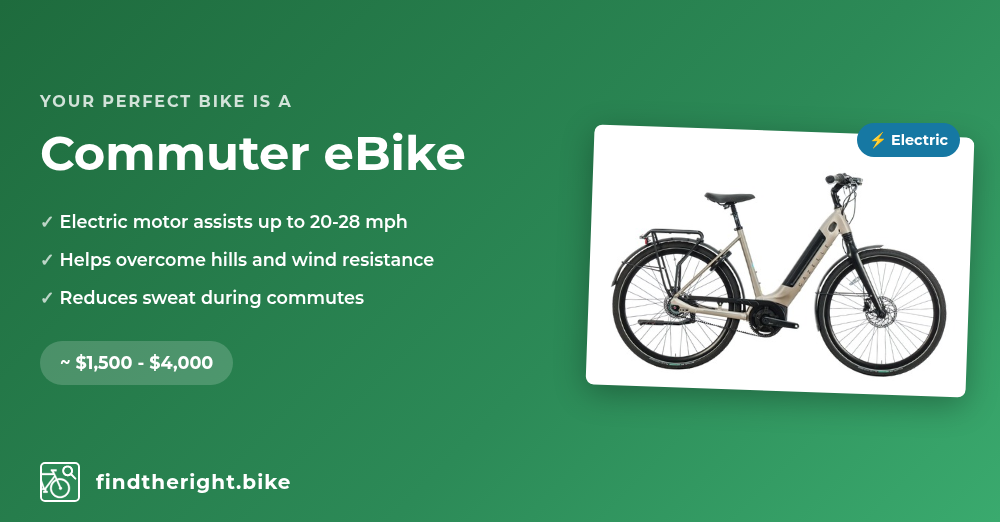
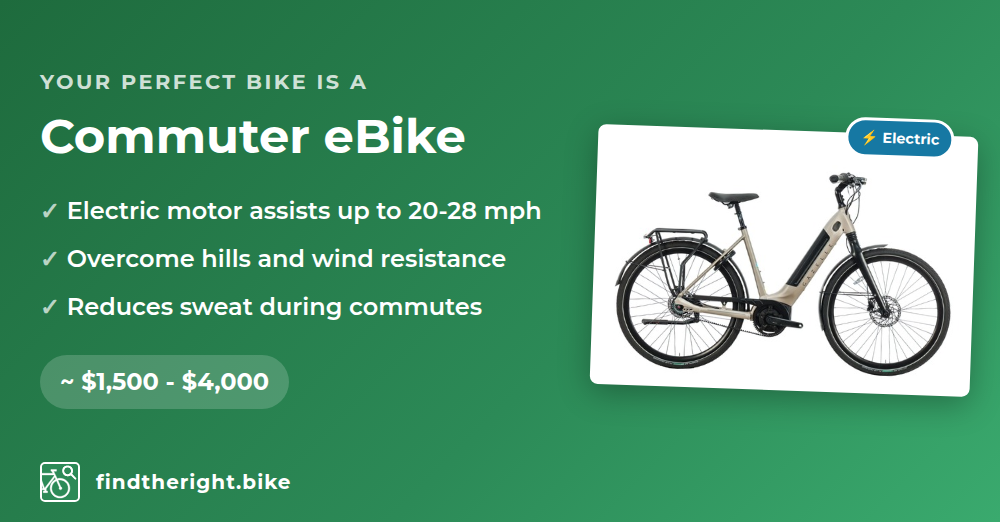
Improve social images with larger font sizes Also tightened up text

diff --git a/src/constants/bikeTypes.ts b/src/constants/bikeTypes.ts
@@ -46,7 +46,7 @@ export const BikeTypes: Record<BikeTypeId, BikeType> = {
     description: 'A commuter eBike is ideal for your situation. The electric assistance will help with hills, wind, or longer distances while maintaining the convenience of a standard bicycle.',
     features: [
       'Electric motor assists up to 20-28 mph',
-      'Helps overcome hills and wind resistance',
+      'Overcome hills and wind resistance',
       'Reduces sweat during commutes',
       '20-50 mile range per charge'
     ],
@@ -63,9 +63,8 @@ export const BikeTypes: Record<BikeTypeId, BikeType> = {
     similarTypes: ['cargo-ebike', 'longtail-bike', 'cargo-etrike'],
     description: 'A non-electric cargo bike will address your carrying needs. These bikes are designed to handle loads while maintaining stability and ease of use without requiring battery power.',
     features: [
-      'Front cargo box for groceries and goods',
-      'Stable frame design for carrying heavy loads',
-      'Can transport goods, groceries, or equipment',
+      'Front cargo box for people or cargo',
+      'Stable frame design for heavy loads',
       'No battery to charge or maintain'
     ],
     priceRange: '$1,000 - $2,500',
@@ -81,8 +80,8 @@ export const BikeTypes: Record<BikeTypeId, BikeType> = {
     similarTypes: ['cargo-etrike', 'longtail-ebike', 'cargo-bike'],
     description: 'A cargo eBike with front loading design is perfect for your needs. The electric assistance makes hauling cargo easier, while the bucket design is ideal for groceries and goods.',
     features: [
-      'Large front cargo area for groceries or goods',
-      'Electric assist makes carrying loads easier',
+      'Front cargo box for people or cargo',
+      'E-assist makes carrying loads easier',
       'Stable even when fully loaded',
       'Can replace a car for most errands'
     ],
@@ -99,9 +98,9 @@ export const BikeTypes: Record<BikeTypeId, BikeType> = {
     similarTypes: ['longtail-ebike', 'cargo-bike', 'cargo-ebike'],
     description: 'A non-electric longtail cargo bike is perfect for transporting people and heavy loads. With your fitness level, you can handle this sturdy bike without electric assistance while still carrying passengers or cargo.',
     features: [
-      'Extended rear deck for passengers or cargo',
       'High weight capacity (up to 550 lbs)',
       'Can carry several children',
+      'Rear deck for passengers or cargo',
       'No battery charging required'
     ],
     priceRange: '$1,800 - $2,500',
@@ -118,9 +117,9 @@ export const BikeTypes: Record<BikeTypeId, BikeType> = {
     similarTypes: ['cargo-ebike', 'cargo-etrike', 'longtail-bike', 'commuter-ebike'],
     description: 'A longtail cargo eBike is ideal for transporting people. The extended rear section provides seating for children or adults while electric assistance makes the ride effortless.',
     features: [
-      'Extended rear deck for passengers',
-      'Electric assist makes carrying passengers easier',
-      'Can accommodate child seats or passenger seating',
+      'E-assist makes carrying passengers easier',
+      'Can accommodate child seats or adult seating',
+      'Rear deck for passengers',
       'High weight capacity'
     ],
     priceRange: '$1,500 - $6,000',
@@ -137,9 +136,9 @@ export const BikeTypes: Record<BikeTypeId, BikeType> = {
     description: 'An electric trike offers maximum stability with three wheels, making it ideal ' +
       'if you have balance concerns. Electric assist makes hauling cargo or passengers effortless.',
     features: [
-      'Three-wheel design for maximum stability',
-      'Low step-through frame for easy mounting',
-      'Electric assist for hills and heavy loads',
+      'Three wheels for maximum stability',
+      'Step-through frame for easy mounting',
+      'E-assist for hills and heavy loads',
       'Large cargo capacity'
     ],
     priceRange: '$1,500 - $3,999',
@@ -155,9 +154,9 @@ export const BikeTypes: Record<BikeTypeId, BikeType> = {
     similarTypes: ['cargo-ebike', 'etrike', 'longtail-ebike', 'cargo-bike'],
     description: 'A cargo electric trike combines the stability of three wheels with a front-loading cargo area. Ideal for hauling kids, pets, or heavy loads with confidence and zero balance concerns.',
     features: [
-      'Three-wheel design for maximum stability',
+      'Three wheels for maximum stability',
       'Front cargo box for kids, pets, or goods',
-      'Electric assist for heavy loads and hills',
+      'E-assist for heavy loads and hills',
       'No balance required — safe for all abilities'
     ],
     priceRange: '$2,300 - $6,500',

diff --git a/index.html b/index.html
@@ -13,12 +13,12 @@
 
     <meta charset="UTF-8" />
     <meta name="viewport" content="width=device-width, initial-scale=1.0" />
-    <title>Find The Right Bike - Find Your Perfect Ride</title>
-    <meta name="description" content="Find the right bike to help biking replace some of your car trips, and see how much you could save!" />
+    <title>Find The Right Bike</title>
+    <meta name="description" content="Answer four questions to find your right bike, and see how much you could save by biking!" />
 
     <!-- Open Graph -->
-    <meta property="og:title" content="Find The Right Bike - Find Your Perfect Ride!" />
-    <meta property="og:description" content="Find the right bike to help biking replace some of your car trips, and see how much you could save!" />
+    <meta property="og:title" content="Find The Right Bike" />
+    <meta property="og:description" content="Answer four questions to find your right bike, and see how much you could save by biking!" />
     <meta property="og:url" content="https://findtheright.bike" />
     <meta property="og:type" content="website" />
     <meta property="og:image" content="https://findtheright.bike/images/social.png" />
@@ -27,8 +27,8 @@
 
     <!-- Twitter Card -->
     <meta name="twitter:card" content="summary_large_image" />
-    <meta name="twitter:title" content="Find The Right Bike - Find Your Perfect Ride!" />
-    <meta name="twitter:description" content="Find the right bike to help biking replace some of your car trips, and see how much you could save!" />
+    <meta name="twitter:title" content="Find The Right Bike" />
+    <meta name="twitter:description" content="Answer four questions to find your right bike, and see how much you could save by biking!" />
     <meta name="twitter:image" content="https://findtheright.bike/images/social.png" />
 
     <link rel="icon" type="image/x-icon" href="/favicon.ico">

diff --git a/src/components/SocialImage.vue b/src/components/SocialImage.vue
@@ -2,7 +2,7 @@
   <div class="social-image">
     <div class="content">
       <div class="eyebrow">4 questions. No nonsense.</div>
-      <h1>Find The<br>Right Bike</h1>
+      <h1>Find The<br> Right Bike</h1>
       <div class="benefits-summary">
         <div class="benefit-item">
           <div class="benefit-icon">💰</div>
@@ -24,7 +24,8 @@
     </div>
     <div class="collage">
       <div class="photo photo-1">
-        <img src="/images/bikes/dutch-bike.jpg" alt="City bike">
+        <img src="/images/bikes/urban-arrow.jpg" alt="Family bike">
+
       </div>
       <div class="photo photo-2">
         <img src="/images/bikes/gazelle-ebike.jpg" alt="Electric bike">
@@ -33,7 +34,7 @@
         <img src="/images/bikes/tern-gsd-500.jpg" alt="Cargo bike">
       </div>
       <div class="photo photo-4">
-        <img src="/images/bikes/urban-arrow.jpg" alt="Family bike">
+        <img src="/images/bikes/dutch-bike.jpg" alt="City bike">
       </div>
     </div>
     <div class="site-brand">
@@ -57,7 +58,7 @@
 }
 
 h1 {
-  font-size: 3.5rem;
+  font-size: 4rem;
 }
 
 .benefits-summary { gap: 1rem 0.5rem; }
@@ -67,7 +68,7 @@ h1 {
   color: vars.$white;
   font-weight: 700;
   box-shadow: none;
-  font-size: 1rem;
+  font-size: 1.25rem;
 }
 
 // 2x2 collage
@@ -108,12 +109,13 @@ h1 {
   }
   &.photo-3 {
     background: #FFBE0B;
-    transform: rotate(2deg) translate(1rem, -2rem);
+    transform: rotate(-4deg) translate(5rem, -1rem);
     z-index: 1;
+
   }
   &.photo-4 {
     background: #06D6A0;
-    transform: rotate(-3deg) translate(-1rem, 0rem);
+    transform: rotate(3deg) translate(0.5rem, -2rem);
   }
 }
 </style>

diff --git a/src/components/SocialImageBike.vue b/src/components/SocialImageBike.vue
@@ -11,8 +11,8 @@
     <div class="photo-area">
       <div class="photo-frame">
         <img :src="bike.image" :alt="bike.title">
+        <div v-if="bike.electric" class="electric-badge">⚡ Electric</div>
       </div>
-      <div v-if="bike.electric" class="electric-badge">⚡ Electric</div>
     </div>
     <div class="site-brand">
       <img src="/images/icons/favicon.svg" alt="" class="site-logo">
@@ -44,7 +44,7 @@ const bike = computed(() => BikeTypes[props.type as BikeTypeId] || null);
 
   li {
     color: vars.$white;
-    font-size: 1.1rem;
+    font-size: 1.5rem;
     font-weight: 600;
     padding: 0.3rem 0;
 
@@ -60,13 +60,13 @@ const bike = computed(() => BikeTypes[props.type as BikeTypeId] || null);
   background-color: rgba(255, 255, 255, 0.18);
   color: vars.$white;
   font-weight: 700;
-  font-size: 1.1rem;
+  font-size: 1.5rem;
   padding: 0.5rem 1.25rem;
   border-radius: 50px;
 }
 
 .photo-area {
-  width: 440px;
+  width: 400px;
   flex-shrink: 0;
   display: flex;
   align-items: center;
@@ -80,7 +80,7 @@ const bike = computed(() => BikeTypes[props.type as BikeTypeId] || null);
   padding: 10px;
   border-radius: 8px;
   box-shadow: 0 8px 32px rgba(0, 0, 0, 0.3);
-  transform: rotate(2deg);
+  transform: rotate(2deg) translateX(-1rem);
 
   img {
     width: 360px;
@@ -91,9 +91,10 @@ const bike = computed(() => BikeTypes[props.type as BikeTypeId] || null);
 }
 
 .electric-badge {
-  top: 2rem;
-  right: 2.5rem;
+  top: -1rem;
+  right: 1.5rem;
   font-size: 0.9rem;
   padding: 0.35rem 0.75rem;
+  border: solid 3px white;
 }
 </style>

diff --git a/src/assets/scss/social-image.scss b/src/assets/scss/social-image.scss
@@ -31,7 +31,7 @@ $bg-end: #3aaa6e;
 }
 
 .eyebrow {
-  font-size: 1rem;
+  font-size: 1.3rem;
   font-weight: 700;
   letter-spacing: 0.12em;
   text-transform: uppercase;
